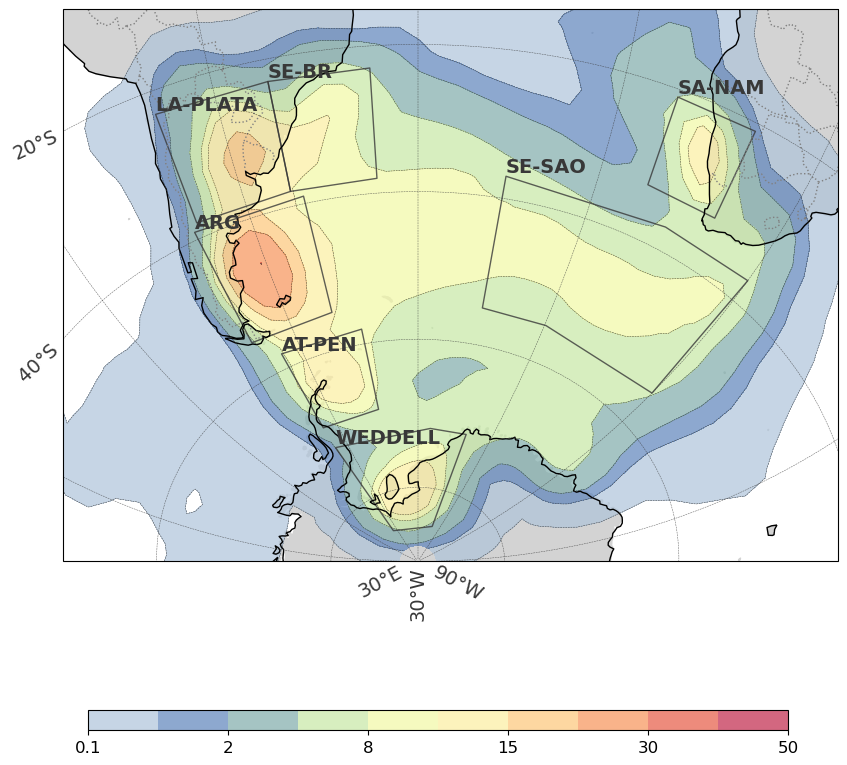
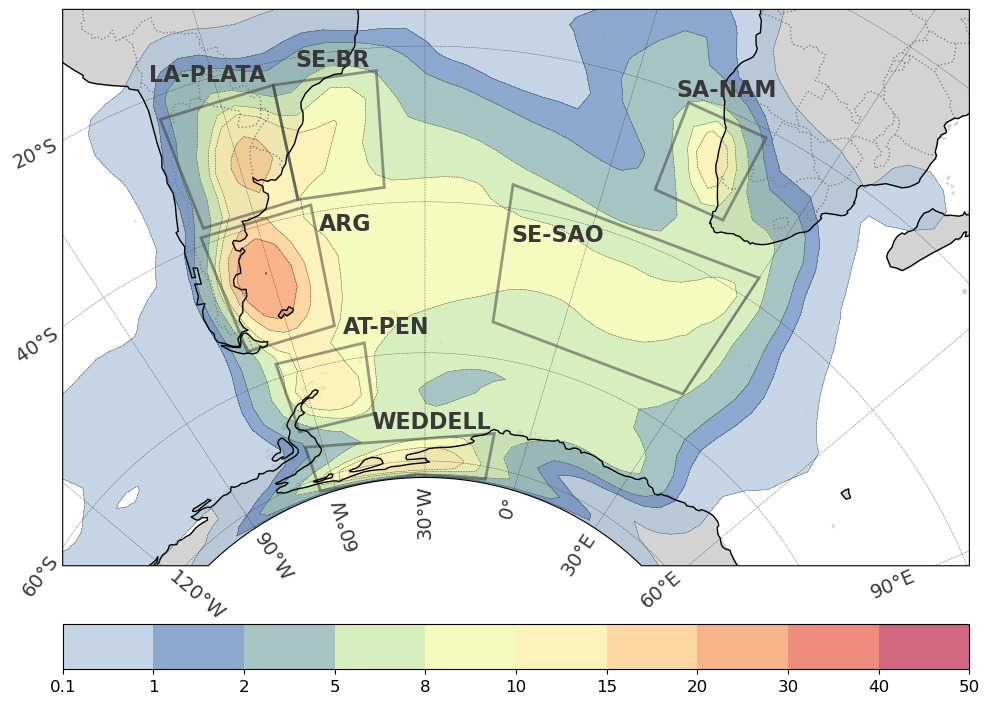
Improved map

diff --git a/src_manuscript_life-cycle/genesis_regions.py b/src_manuscript_life-cycle/genesis_regions.py
@@ -1,80 +1,97 @@
 import matplotlib.pyplot as plt
 import cartopy.crs as ccrs
 import cartopy.feature as cfeature
-import shapely.geometry as sgeom
 import matplotlib.colors as mcolors
 import xarray as xr
 import matplotlib as mpl
+import numpy as np
+import matplotlib.patches as mpatches
 
 def plot_region_box(ax, coords, edgecolor, label=None):
     for coord in coords:
-        box = sgeom.box(*coord)
-        ax.add_geometries([box], ccrs.PlateCarree(), edgecolor=edgecolor, facecolor='none', alpha=0.8)
+        lon_corners = np.array([coord[0], coord[2], coord[2], coord[0]])
+        lat_corners = np.array([coord[1], coord[1], coord[3], coord[3]])
+
+        poly_corners = np.column_stack((lon_corners, lat_corners))
+        polygon = mpatches.Polygon(poly_corners, closed=True, ec=edgecolor,
+                                    fill=False, lw=2, alpha=0.5,
+                                      transform=ccrs.Geodetic())
+        ax.add_patch(polygon)
+
         if label:
-            # Adjust the text coordinates
-            text_lat = coord[4]  # Subtract 2 degrees
-            text_lon = coord[0]  # Add 1 degree
-            ax.text(text_lon, text_lat, label, transform=ccrs.PlateCarree(), 
-                    fontsize=14, color=edgecolor, fontweight='bold', ha='left', va='bottom')
+            text_lat = coord[3]
+            text_lon = coord[2] - 1
+            if label == 'ARG':
+                text_lat = coord[3] - 5
+                text_lon = coord[2] + 10
+            elif label == 'AT-PEN':
+                text_lon = coord[2] + 15
+            elif label == 'SA-NAM':
+                text_lat = coord[3] + 5
+            elif label == 'SE-SAO':
+                text_lon = coord[2] - 27
+                text_lat = coord[3] - 5
+                
+            ax.text(text_lon, text_lat, label, transform=ccrs.Geodetic(),
+                     fontsize=16, color=edgecolor, fontweight='bold', ha='right', va='bottom')
 
-colors_linear = ['#AFC4DA', '#4471B2', '#B1DFA3', '#EFF9A6', 
+def create_map_and_axes():
+    fig = plt.figure(figsize=(10, 10))
+    proj = ccrs.AlbersEqualArea(central_longitude=-30, central_latitude=-35, standard_parallels=(-20.0, -50.0))
+    ax = fig.add_subplot(1, 1, 1, projection=proj)
+    ax.set_extent([-80, 50, -15, -90], crs=ccrs.PlateCarree())
+    return fig, ax
+
+def add_gridlines_and_continents(ax):
+    gl = ax.gridlines(draw_labels=True, zorder=2, linestyle='dashed', alpha=0.8, lw=0.35, color='#383838')
+    gl.xlabel_style = {'size': 14, 'color': '#383838'}
+    gl.ylabel_style = {'size': 14, 'color': '#383838'}
+    gl.top_labels = None
+    gl.right_labels = None
+    ax.add_feature(cfeature.NaturalEarthFeature('physical', 'land', '50m', edgecolor='face', facecolor='lightgray'), zorder=1)
+
+def plot_genesis_density(ax):
+    colors_linear = ['#AFC4DA', '#4471B2', '#B1DFA3', '#EFF9A6', 
             '#FEEC9F', '#FDB567', '#F06744',  '#C1274A']
-cmap = mcolors.LinearSegmentedColormap.from_list("", colors_linear)
+    cmap = mcolors.LinearSegmentedColormap.from_list("", colors_linear)
+    infile = '../periods_species_statistics/70W-no-continental/track_density/track_density.nc'
+    ds = xr.open_dataset(infile)
+    density = ds['incipient']
+    levels = [0.1, 1, 2, 5, 8, 10, 15, 20, 30, 40, 50]
+    norm = mpl.colors.BoundaryNorm(levels, cmap.N)
+    lon, lat = density.lon, density.lat
+    cf = plt.contourf(lon, lat, density, cmap=cmap, levels=levels, norm=norm, transform=ccrs.PlateCarree(), alpha=0.7)
+    ax.contour(lon, lat, density, colors='#383838', linewidths=0.35, levels=levels, norm=norm, linestyles='dashed', transform=ccrs.PlateCarree())
+    cbar = plt.colorbar(cf, format='%g', orientation='horizontal', ticks=levels, pad=0.06)
+    cbar.ax.tick_params(labelsize=12)
+    return cf
 
-fig = plt.figure(figsize=(10, 10))
-proj = ccrs.AzimuthalEquidistant(central_longitude=-30, central_latitude=-35)
-ax = fig.add_subplot(1, 1, 1, projection=proj)
+def main():
+    fig, ax = create_map_and_axes()
+    add_gridlines_and_continents(ax)
+    cf = plot_genesis_density(ax)
 
-# Set the extent
-ax.set_extent([-80, 30, -15, -90], crs=ccrs.PlateCarree())
+    regions = {
+        "SE-BR": [(-52, -38, -37, -23)],
+        "LA-PLATA": [(-69, -38, -52, -23)],
+        "ARG": [(-70, -55, -50, -39)],
+        "SE-SAO": [(-15, -55, 30, -37)],
+        "SA-NAM": [(8, -33, 20, -21)],
+        "AT-PEN": [(-65, -69, -44, -58)],
+        "WEDDELL": [(-65, -85, -10, -72)]
+    }
 
-# Add gridlines
-gl = ax.gridlines(draw_labels=True, zorder=2, linestyle='dashed', alpha=0.8, lw=0.35, color='#383838')
-gl.xlabel_style = {'size': 14, 'color': '#383838'}
-gl.ylabel_style = {'size': 14, 'color': '#383838'}
-gl.top_labels = None
-gl.right_labels = None
+    for region, coords in regions.items():
+        plot_region_box(ax, coords, edgecolor='#383838', label=region)
 
-# Add gray shaded background to continents
-ax.add_feature(cfeature.NaturalEarthFeature('physical', 'land', '50m',
-                                             edgecolor='face', facecolor='lightgray'), zorder=1)
+    ax.add_feature(cfeature.BORDERS, linestyle=':', edgecolor='gray', facecolor='None')
+    ax.coastlines()
 
-# Plot genesis density
-infile = '../periods_species_statistics/70W-no-continental/track_density/track_density.nc'
-ds = xr.open_dataset(infile)
-density = ds['incipient']
-levels = [0.1, 1, 2, 5, 8, 10, 15, 20, 30, 40, 50]
-norm = mpl.colors.BoundaryNorm(levels, cmap.N)
-lon, lat = density.lon, density.lat
-cf = plt.contourf(lon, lat, density, cmap=cmap, levels=levels, norm=norm,
-                   transform=ccrs.PlateCarree(), alpha=0.7)
-ax.contour(lon, lat, density, colors='#383838', linewidths=0.35,  levels=levels, norm=norm,
-            linestyles='dashed', transform=ccrs.PlateCarree())
+    plt.tight_layout()
 
-# Region coordinates and labels
-regions = {
-    "SE-BR": [(-52, -38, -37, -23)],
-    "LA-PLATA": [(-69, -38, -52, -23)],
-    "ARG": [(-70, -55, -50, -39)],
-    "SE-SAO": [(-15, -55, 30, -37)],
-    "SA-NAM": [(8, -33, 20, -21)],
-    "AT-PEN": [(-65, -69, -44, -58)],
-    "WEDDELL": [(-65, -85, -10, -72)]
-}
+    fname = '../figures/manuscript_life-cycle/genesis_regions.png'
+    plt.savefig(fname, bbox_inches='tight')
+    print(f'Genesis regions saved in {fname}')
 
-# Add boxes for regions
-for region, coords in regions.items():
-    plot_region_box(ax, coords, edgecolor='#383838', label=region)
-
-# Add country borders
-ax.add_feature(cfeature.BORDERS, linestyle=':', edgecolor='gray', facecolor='None')
-
-ax.coastlines()
-
-cbar_axes = fig.add_axes([0.15, 0.05, 0.7, 0.02])
-colorbar = plt.colorbar(cf, cax=cbar_axes, format='%g',  orientation='horizontal')
-colorbar.ax.tick_params(labelsize=12)
-
-fname = '../figures/manuscript_life-cycle/genesis_regions.png'
-plt.savefig(fname, bbox_inches='tight')
-print(f'Genesis regions saved in {fname}')
+if __name__ == "__main__":
+    main()
